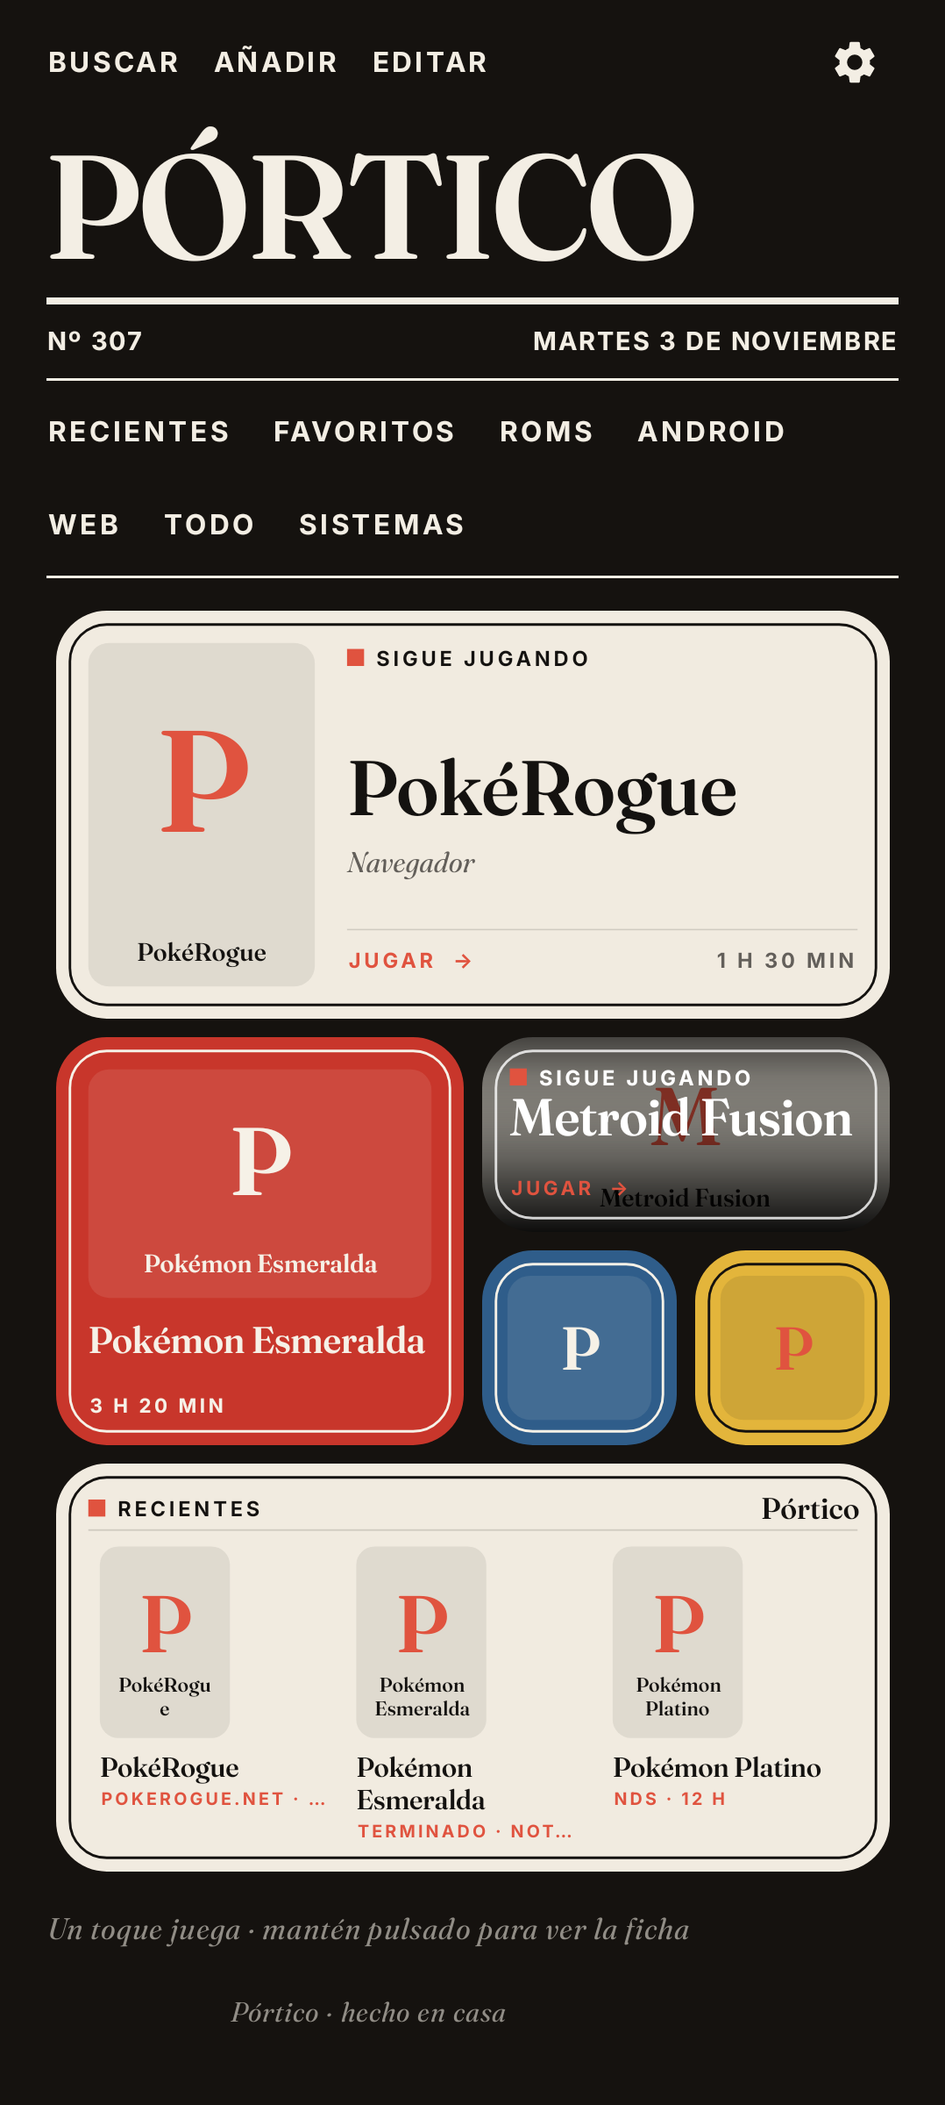
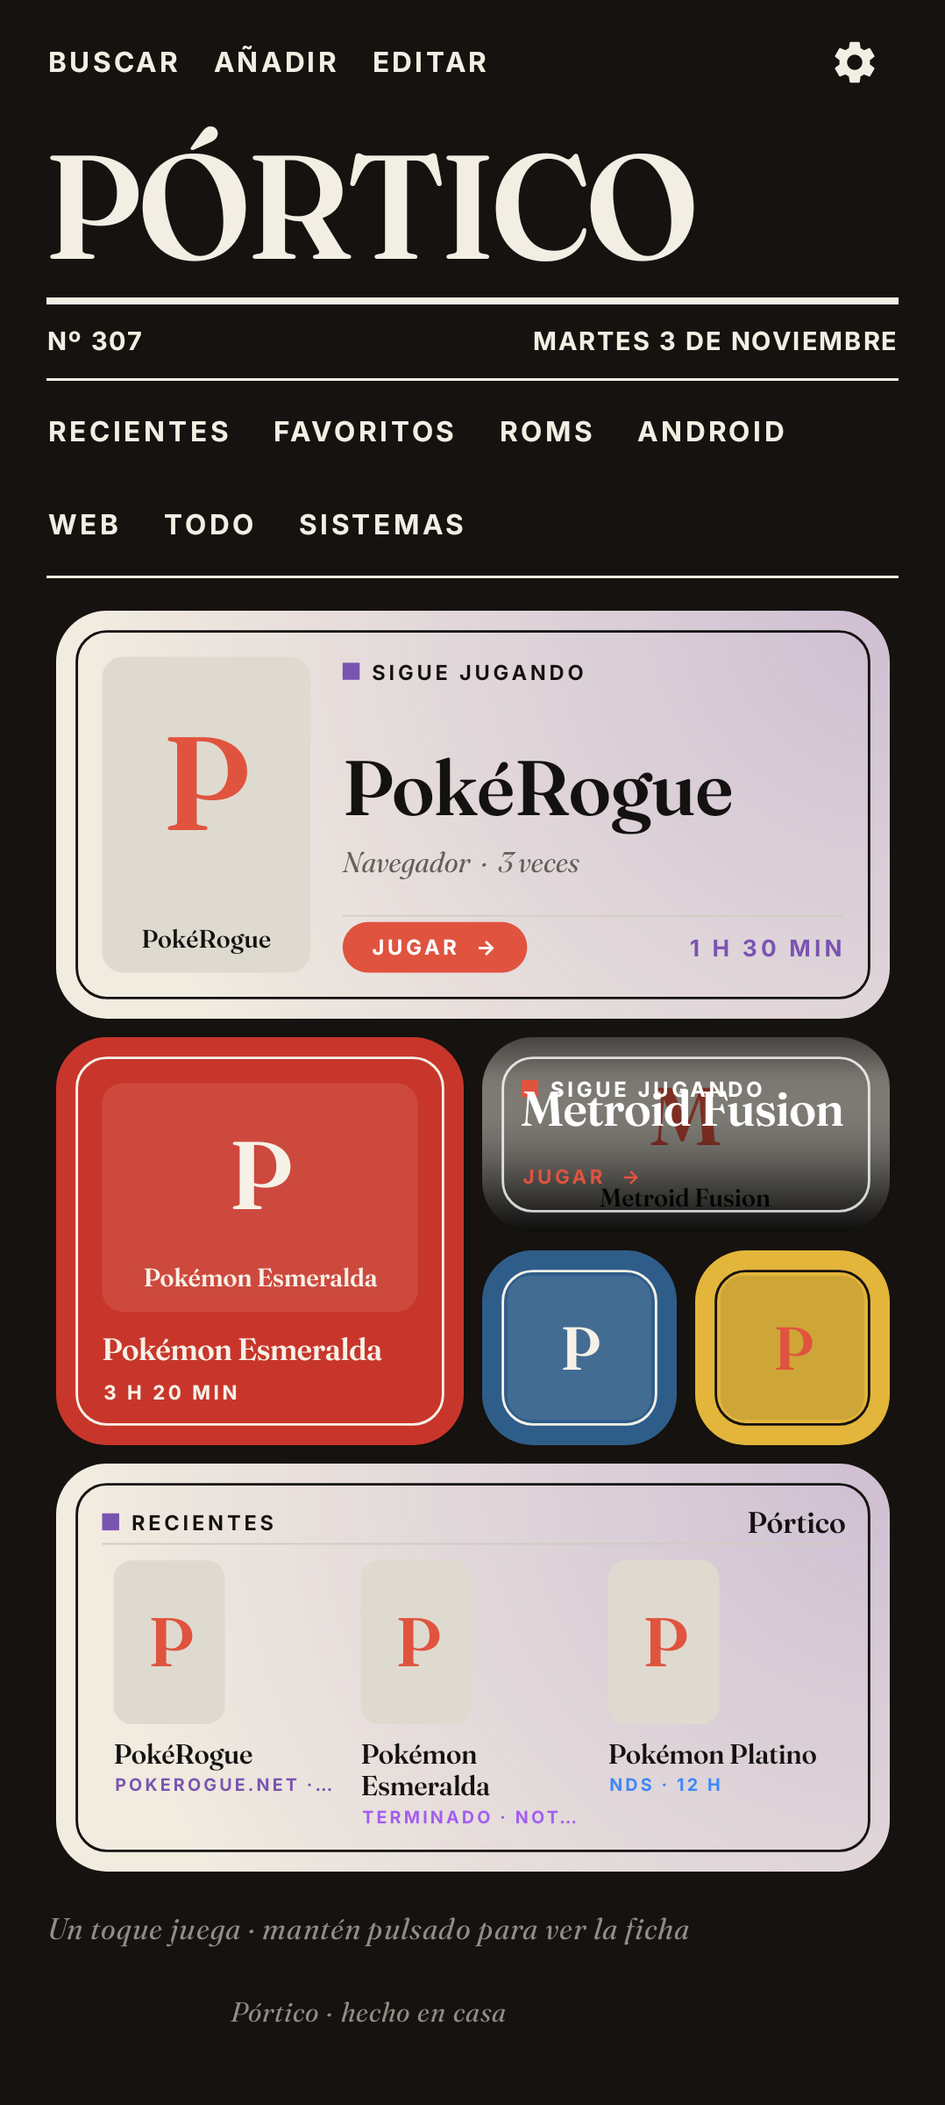
Pórtico 0.13.1: los widgets de dentro con más margen, color, botón y más información
Claude-Session: https://claude.ai/code/session_01Q4uywen3nuzUg5CTwJaCY5

diff --git a/app/src/main/java/com/gonzalo/portico/Widgets.kt b/app/src/main/java/com/gonzalo/portico/Widgets.kt
@@ -17,6 +17,7 @@ import android.graphics.Matrix
 import android.graphics.Paint
 import android.graphics.Path
 import android.graphics.PorterDuff
+import android.graphics.RadialGradient
 import android.graphics.PorterDuffXfermode
 import android.graphics.RectF
 import android.graphics.Shader
@@ -125,13 +126,16 @@ class Pagina(val zonas: List<Zona>, val dibujo: Hoja.() -> Unit) {
     /** Sin papel ni esquinas: solo lo dibujado, sobre el fondo de pantalla. */
     var sinFondo = false
     fun transparente() = apply { sinFondo = true }
-    fun bitmap(ctx: Context, w: Float, h: Float, noche: Boolean, s: Float, propio: Int? = null): Bitmap = Hoja(ctx, w, h, noche, s, propio).apply { dibujo(); if (!sinFondo) terminar() }.bm
+    fun bitmap(ctx: Context, w: Float, h: Float, noche: Boolean, s: Float, propio: Int? = null, dentro: Boolean = false): Bitmap = Hoja(ctx, w, h, noche, s, propio, dentro).apply { dibujo(); if (!sinFondo) terminar() }.bm
 }
 
 private val ES = Locale("es", "ES")
 
+/** El margen de dentro de un widget en la app (más holgado). */
+fun padDe(h: Float) = if (h < 90f) 17f else 20f
+
 /** El lienzo de un widget: se dibuja en dp, con los colores del tema y las letras de la revista. */
-class Hoja(val ctx: Context, val w: Float, val h: Float, val noche: Boolean, s: Float, val propio: Int? = null) {
+class Hoja(val ctx: Context, val w: Float, val h: Float, val noche: Boolean, s: Float, val propio: Int? = null, val dentro: Boolean = false) {
     val bm: Bitmap = Bitmap.createBitmap(max(1, (w * s).roundToInt()), max(1, (h * s).roundToInt()), Bitmap.Config.ARGB_8888)
     val c = Canvas(bm).apply { scale(bm.width / w, bm.height / h) }
 
@@ -166,7 +170,8 @@ class Hoja(val ctx: Context, val w: Float, val h: Float, val noche: Boolean, s: 
 
     /** Recorta las esquinas (suaves, con antialias) y traza el reborde: una línea fina del color del texto, metida hacia dentro. */
     fun terminar() {
-        val m = 6f
+        // Dentro de la app el reborde fino va más metido: más aire entre el borde y el contenido
+        val m = if (dentro) 9f else 6f
         c.drawRoundRect(RectF(m, m, w - m, h - m), radio - m, radio - m, Paint(Paint.ANTI_ALIAS_FLAG).apply {
             style = Paint.Style.STROKE; strokeWidth = 1.1f; color = reborde ?: tinta })
         val p = Path().apply { addRoundRect(RectF(0f, 0f, w, h), radio, radio, Path.Direction.CW); fillType = Path.FillType.INVERSE_WINDING }
@@ -174,6 +179,28 @@ class Hoja(val ctx: Context, val w: Float, val h: Float, val noche: Boolean, s: 
     }
 
     fun fondo(color: Int = papel) = c.drawColor(color)
+    /** Un lavado de color suave desde la esquina de arriba a la derecha (el color del juego): menos papel vacío. */
+    fun lavado(color: Int) {
+        if (!dentro) return
+        val base = color and 0xFFFFFF
+        val a = if (noche) 0x4A else 0x38
+        val p = Paint().apply { shader = RadialGradient(w, 0f, max(w, h) * 0.95f, intArrayOf((a shl 24) or base, base), null, Shader.TileMode.CLAMP) }
+        c.drawRect(0f, 0f, w, h, p)
+    }
+
+    /** Un botón de verdad: píldora de acento con el texto en versalitas. [derecha]: [x] es el borde derecho. */
+    fun boton(texto: String, x: Float, top: Float, alto: Float = 22f, derecha: Boolean = false, color: Int = acento): RectF {
+        val t = texto.uppercase(ES)
+        val p = tp(fNegrita, if (alto < 20f) 8.5f else 9f, if (lum(color) > 0.55f) 0xFF14151A.toInt() else 0xFFFFFFFF.toInt(), 0.16f)
+        val ancho = p.measureText(t) + 2 * (alto * 0.55f)
+        val x0 = if (derecha) x - ancho else x
+        val r = RectF(x0, top, x0 + ancho, top + alto)
+        c.drawRoundRect(r, alto / 2, alto / 2, lleno(color))
+        val fm = p.fontMetrics
+        c.drawText(t, r.left + alto * 0.55f, r.centerY() - (fm.ascent + fm.descent) / 2, p)
+        return r
+    }
+
     fun lleno(color: Int) = Paint(Paint.ANTI_ALIAS_FLAG).apply { this.color = color }
 
     fun tp(f: Typeface, size: Float, color: Int, track: Float = 0f) =
@@ -454,20 +481,20 @@ object Widgets {
     }
 
     /** El widget «Sigue jugando» fijo en un juego (para la pantalla de inicio de la app): el mismo dibujo, con su color si lo hay. */
-    suspend fun paginaDeJuego(ctx: Context, j: Juego, w: Float, h: Float, propio: Boolean): Pagina {
+    suspend fun paginaDeJuego(ctx: Context, j: Juego, w: Float, h: Float, propio: Boolean, dentro: Boolean = false): Pagina {
         cargarLetras(ctx)
-        return jugando(WDatos(ctx), 0, w, h, fijo = j, propio = propio)
+        return jugando(WDatos(ctx), 0, w, h, fijo = j, propio = propio, dentro = dentro)
     }
 
-    suspend fun componer(ctx: Context, tipo: WTipo, id: Int, w: Float, h: Float): Pagina {
+    suspend fun componer(ctx: Context, tipo: WTipo, id: Int, w: Float, h: Float, dentro: Boolean = false): Pagina {
         val d = WDatos(ctx)
         return when (tipo) {
-            WTipo.JUGANDO -> jugando(d, id, w, h)
-            WTipo.ESTANTE -> estante(d, w, h)
-            WTipo.PORTADA -> enPortada(d, id, w, h)
-            WTipo.SIGUIENTE -> siguiente(d, id, w, h)
+            WTipo.JUGANDO -> jugando(d, id, w, h, dentro = dentro)
+            WTipo.ESTANTE -> estante(d, w, h, dentro)
+            WTipo.PORTADA -> enPortada(d, id, w, h, dentro)
+            WTipo.SIGUIENTE -> siguiente(d, id, w, h, dentro)
             WTipo.MARCA -> marca(d, w, h)
-            WTipo.MARCA_PAPEL -> marcaPapel(d, w, h)
+            WTipo.MARCA_PAPEL -> marcaPapel(d, w, h, dentro)
         }
     }
 
@@ -548,7 +575,7 @@ object Widgets {
             pon(t, pad, pad + 28f + l.height)
         }
 
-    private suspend fun jugando(d: WDatos, id: Int, w: Float, h: Float, fijo: Juego? = null, propio: Boolean = false): Pagina {
+    private suspend fun jugando(d: WDatos, id: Int, w: Float, h: Float, fijo: Juego? = null, propio: Boolean = false, dentro: Boolean = false): Pagina {
         val ctx = d.ctx
         val lista = if (fijo != null) listOf(fijo) else d.recientes
         if (lista.isEmpty()) return vacio(ctx, "Sigue jugando", "Nada que jugar todavía", "Añade un juego a Pórtico y lo tendrás aquí, a un toque de jugar.", w, h)
@@ -558,13 +585,16 @@ object Widgets {
         val img = imagen(ctx, e, px(ctx, if (compacto) max(w, h) else h * 0.9f))
         val accion = "Jugar  →"
         val horas = if (e.msJugados >= 60_000) tiempoDe(e.msJugados) else ""
+        val gc = if (dentro) tonosDe(e).first.toArgb() else 0
+        // Lo de más: cuántas veces lo has jugado y cómo va (solo dentro de la app, para llenar el hueco)
+        val extra = listOfNotNull(if (e.veces > 0) "${e.veces} ${if (e.veces == 1) "vez" else "veces"}" else null, if (e.terminado) "terminado" else null, if (e.favorito) "favorito" else null).joinToString(" · ")
         val zonas = mutableListOf(
             Zona(0f, 0f, w, h, abrirFicha(ctx, e.id), "Abrir ${e.titulo}"),
             Zona(0f, h - 44f, w * 0.5f, 44f, jugar(ctx, e.id), "Jugar a ${e.titulo}")
         )
         if (lista.size > 1) zonas += Zona(w - 72f, 0f, 72f, 42f, op(ctx, WTipo.JUGANDO, id, "sig"), "Otro juego")
         return Pagina(zonas) {
-            val pad = if (h < 90f) 12f else 14f
+            val pad = if (dentro) padDe(h) else if (h < 90f) 12f else 14f
             when {
                 // Con un color elegido, el color tiene que verse: la portada va dentro del papel de ese color, no a sangre
                 compacto && propio -> {
@@ -592,39 +622,39 @@ object Widgets {
                 }
                 h > w * 1.15f -> {
                     // Alto: portada arriba y el título debajo
-                    fondo()
-                    seccion("Sigue jugando", pad, pad, w - 2 * pad - 50f)
+                    fondo(); lavado(gc)
+                    seccion("Sigue jugando", pad, pad, w - 2 * pad - 50f, tinta, if (dentro) gc else acento)
                     val top = pad + 20f
                     val ch = h * 0.5f - top
                     val cw = min(ch * 0.66f, w * 0.55f)
                     portada(img, RectF(pad, top, pad + cw, top + ch), e.titulo)
                     val x0 = pad + cw + 10f
-                    if (horas.isNotEmpty()) pon(capa(horas, tp(fTitular, min(26f, (w - x0 - pad) / 3f), acento), w - x0 - pad + 4f, 1), x0, top + ch - 30f)
+                    if (horas.isNotEmpty()) pon(capa(horas, tp(fTitular, min(26f, (w - x0 - pad) / 3f), if (dentro) gc else acento), w - x0 - pad + 4f, 1), x0, top + ch - 30f)
                     var y = top + ch + 12f
                     val l = titular(e.titulo, w - 2 * pad, h - y - pad - 26f - 16f, 30f, 13f, 4)
                     y += pon(l, pad, y) + 3f
                     pon(capa(d.origen(e), tp(fCursiva, 12f, gris), w - 2 * pad, 1), pad, y)
-                    ante(accion, pad, h - pad - 11f, w - 2 * pad, acento)
+                    if (dentro) boton(accion, pad, h - pad - 22f, 22f) else ante(accion, pad, h - pad - 11f, w - 2 * pad, acento)
                 }
                 else -> {
                     // Ancho: portada a la izquierda; a la derecha, la sección arriba, el pie abajo y el titular entre los dos
-                    fondo()
+                    fondo(); lavado(gc)
                     val ch = h - 2 * pad
                     val cw = min(ch * 0.66f, w * 0.36f)
                     portada(img, RectF(pad, pad, pad + cw, pad + ch), e.titulo)
                     val x0 = pad + cw + 14f
                     val rw = w - x0 - pad
-                    seccion("Sigue jugando", x0, pad + 1f, rw)
+                    seccion("Sigue jugando", x0, pad + 1f, rw, tinta, if (dentro) gc else acento)
                     val altoAnte = capa("L", tp(fNegrita, 9f, tinta, 0.16f), 40f, 1).height.toFloat()
                     val bajo = h < 110f
                     val pieY = if (bajo) h - pad - altoAnte else h - pad - 17f
-                    ante(accion, x0, pieY, rw, acento)
-                    if (horas.isNotEmpty()) ante(horas, x0, pieY, rw, gris, 9f, Layout.Alignment.ALIGN_OPPOSITE)
+                    if (dentro) boton(accion, x0, if (bajo) h - pad - 16f else h - pad - 22f, if (bajo) 16f else 22f) else ante(accion, x0, pieY, rw, acento)
+                    if (horas.isNotEmpty()) ante(horas, x0, pieY, rw, if (dentro) gc else gris, if (dentro) 10f else 9f, Layout.Alignment.ALIGN_OPPOSITE)
                     if (!bajo) c.drawRect(x0, h - pad - 22f - 3f, w - pad, h - pad - 21.4f - 3f, lleno(linea))
                     val arriba = pad + 1f + altoAnte
                     val aire = if (bajo) 7f else 10f
                     val hueco = pieY - arriba - 2 * aire - if (bajo) 0f else 4f
-                    val autor = if (h >= 130f) capa(d.origen(e), tp(fCursiva, 12.5f, gris), rw, 1) else null
+                    val autor = if (h >= 130f) capa(d.origen(e) + if (dentro && extra.isNotEmpty() && h >= 150f) "  ·  $extra" else "", tp(fCursiva, 12.5f, gris), rw, 1) else null
                     val altoAutor = autor?.let { it.height + 4f } ?: 0f
                     val l = titular(e.titulo, rw, hueco - altoAutor, (h * 0.19f).coerceIn(30f, 46f), if (bajo) 12f else 13f, if (bajo) 1 else 3)
                     val y = arriba + (pieY - arriba - l.height - altoAutor) / 2
@@ -637,9 +667,9 @@ object Widgets {
 
     // ------------------------------------------------------------------ Recientes (estantería)
 
-    private suspend fun estante(d: WDatos, w: Float, h: Float): Pagina {
+    private suspend fun estante(d: WDatos, w: Float, h: Float, dentro: Boolean = false): Pagina {
         val ctx = d.ctx
-        val pad = 14f
+        val pad = if (dentro) padDe(h) else 14f
         val todas = d.recientes
         if (todas.isEmpty()) return vacio(ctx, "Recientes", "Nada jugado todavía", "Lo último que juegues aparecerá aquí en fila, como en una estantería.", w, h)
         val bajo = h < 150f
@@ -656,8 +686,8 @@ object Widgets {
             Zona(pad, top, w - 2 * pad, h - top, null, "", listOf(items.map { jugar(ctx, it.id) to "Jugar a ${it.titulo}" }))
         )
         return Pagina(zonas) {
-            fondo()
-            seccion("Recientes", pad, pad, w - 2 * pad)
+            fondo(); if (dentro) lavado(tonosDe(items[0]).first.toArgb())
+            seccion("Recientes", pad, pad, w - 2 * pad, tinta, if (dentro) tonosDe(items[0]).first.toArgb() else acento)
             pon(capa("Pórtico", tp(fTitular, 13f, tinta), 80f, 1, 1f, Layout.Alignment.ALIGN_OPPOSITE), w - pad - 80f, pad - 3f)
             c.drawRect(pad, pad + 14.5f, w - pad, pad + 15.2f, lleno(linea))
             items.forEachIndexed { k, e ->
@@ -668,7 +698,7 @@ object Widgets {
                 if (bajo) {
                     val tx = x + cw + 8f
                     val tw = slot - 2 * gap - cw - 8f
-                    val est = capa(d.estado(e).uppercase(ES), tp(fNegrita, 7.5f, acento, 0.16f), tw, 2)
+                    val est = capa(d.estado(e).uppercase(ES), tp(fNegrita, 7.5f, if (dentro) tonosDe(e).first.toArgb() else acento, 0.16f), tw, 2)
                     val l = titular(e.titulo, tw, ch - est.height - 4f, 15f, 10f, 3)
                     pon(l, tx, top)
                     pon(est, tx, top + ch - est.height)
@@ -676,7 +706,7 @@ object Widgets {
                     val tw = slot - 2 * gap
                     val l = capa(e.titulo, tp(fTitular, 12f, tinta, -0.01f), tw, 2, 0.95f)
                     pon(l, x, top + ch + 5f)
-                    ante(d.estado(e), x, top + ch + 7f + l.height, tw, acento, 7.5f)
+                    ante(d.estado(e), x, top + ch + 7f + l.height, tw, if (dentro) tonosDe(e).first.toArgb() else acento, 7.5f)
                 }
             }
         }
@@ -684,7 +714,7 @@ object Widgets {
 
     // ------------------------------------------------------------------ En portada
 
-    private suspend fun enPortada(d: WDatos, id: Int, w: Float, h: Float): Pagina {
+    private suspend fun enPortada(d: WDatos, id: Int, w: Float, h: Float, dentro: Boolean = false): Pagina {
         val ctx = d.ctx
         val items = d.recientes
         if (items.isEmpty()) return vacio(ctx, "En portada", "Tu revista empieza aquí", "Añade o juega algo y saldrá en la portada.", w, h)
@@ -698,7 +728,7 @@ object Widgets {
         if (items.size > 1) zonas += Zona(w - 80f, 0f, 80f, 52f, op(ctx, WTipo.PORTADA, id, "sig"), "Siguiente")
         val fecha = LocalDate.now().let { "${it.dayOfMonth} ${it.month.getDisplayName(TextStyle.SHORT, ES).trimEnd('.')} ${it.year}" }
         return Pagina(zonas) {
-            val pad = 16f
+            val pad = if (dentro) padDe(h) else 16f
             val blanco = 0xFFFFFFFF.toInt()
             if (img != null) {
                 portada(img, RectF(0f, 0f, w, h), e.titulo, 0f, false); reborde = 0xCCFFFFFF.toInt()
@@ -730,7 +760,7 @@ object Widgets {
 
     // ------------------------------------------------------------------ ¿Y ahora qué?
 
-    private suspend fun siguiente(d: WDatos, id: Int, w: Float, h: Float): Pagina {
+    private suspend fun siguiente(d: WDatos, id: Int, w: Float, h: Float, dentro: Boolean = false): Pagina {
         val ctx = d.ctx
         // Algo de tu biblioteca que no hayas terminado (mejor si aún no lo has abierto), en un orden revuelto pero fijo
         val sinProbar = d.sinTerminar.filter { it.veces == 0 }
@@ -741,7 +771,7 @@ object Widgets {
         val e = lista[i]
         val compacto = w < 200f && h < 200f
         val img = imagen(ctx, e, px(ctx, if (compacto) max(w, h) else h))
-        val pad = 14f
+        val pad = if (dentro) padDe(h) else 14f
         val zonas = mutableListOf(
             Zona(0f, 0f, w, h, abrirFicha(ctx, e.id), e.titulo),
             Zona(0f, h - 40f, w * 0.55f, 40f, jugar(ctx, e.id), "Jugar a ${e.titulo}")
@@ -759,13 +789,13 @@ object Widgets {
                 if (lista.size > 1) ante("Otra  ›", w - pad - 60f, h - pad - 11f, 60f, 0xCCFFFFFF.toInt(), 8.5f, Layout.Alignment.ALIGN_OPPOSITE)
                 return@Pagina
             }
-            fondo()
+            fondo(); if (dentro) lavado(tonosDe(e).first.toArgb())
             val ch = h - 2 * pad
             val cw = min(ch * 0.68f, w * 0.34f)
             portada(img, RectF(pad, pad, pad + cw, pad + ch), e.titulo)
             val x0 = pad + cw + 14f
             val rw = w - x0 - pad
-            seccion("¿Y ahora qué?", x0, pad + 1f, rw)
+            seccion("¿Y ahora qué?", x0, pad + 1f, rw, tinta, if (dentro) tonosDe(e).first.toArgb() else acento)
             val y0 = pad + 20f
             val l = titular(e.titulo, rw, h - y0 - pad - 30f - 16f, (h * 0.19f).coerceIn(30f, 46f), 13f, 3)
             pon(l, x0, y0)
@@ -811,13 +841,13 @@ object Widgets {
     }
 
     /** PÓRTICO en papel: la cabecera de la portada (el nombre, el número del día y la fecha), con su papel de fondo. */
-    private fun marcaPapel(d: WDatos, w: Float, h: Float): Pagina {
+    private fun marcaPapel(d: WDatos, w: Float, h: Float, dentro: Boolean = false): Pagina {
         val ctx = d.ctx
         val hoy = LocalDate.now()
         val fecha = "${hoy.dayOfWeek.getDisplayName(TextStyle.FULL, ES)} ${hoy.dayOfMonth} de ${hoy.month.getDisplayName(TextStyle.FULL, ES)}"
         return Pagina(listOf(Zona(0f, 0f, w, h, abrirApp(ctx), "Abrir Pórtico"))) {
             fondo()
-            val pad = if (h < 90f) 12f else 16f
+            val pad = if (dentro) padDe(h) else if (h < 90f) 12f else 16f
             // Lo de debajo del nombre, según el sitio: la línea del número y la fecha; y la entradilla si cabe
             val conLinea = h >= 70f
             val conEntradilla = h >= 140f

diff --git a/app/src/main/java/com/gonzalo/portico/Lienzo.kt b/app/src/main/java/com/gonzalo/portico/Lienzo.kt
@@ -217,9 +217,9 @@ private fun ContenidoWidget(e: Elemento, j: Juego?, wDp: Float, hDp: Float, edit
         value = withContext(Dispatchers.IO) {
             runCatching {
                 Widgets.cargarLetras(ctx)
-                val pag = if (e.esJuego) Widgets.paginaDeJuego(ctx, j!!, wDp, hDp, propio != null)
-                else Widgets.componer(ctx, WTipo.valueOf(e.ref), idNum, wDp, hDp)
-                pag to pag.bitmap(ctx, wDp, hDp, noche, Widgets.escala(ctx, wDp, hDp, 1), propio).asImageBitmap()
+                val pag = if (e.esJuego) Widgets.paginaDeJuego(ctx, j!!, wDp, hDp, propio != null, dentro = true)
+                else Widgets.componer(ctx, WTipo.valueOf(e.ref), idNum, wDp, hDp, dentro = true)
+                pag to pag.bitmap(ctx, wDp, hDp, noche, Widgets.escala(ctx, wDp, hDp, 1), propio, dentro = true).asImageBitmap()
             }.getOrNull()
         }
     }

diff --git a/app/src/main/java/com/gonzalo/portico/PantEstilo.kt b/app/src/main/java/com/gonzalo/portico/PantEstilo.kt
@@ -36,7 +36,7 @@ import androidx.compose.material3.TextButton
 import kotlinx.coroutines.Dispatchers
 import kotlinx.coroutines.withContext
 
-const val VERSION = "0.13.0"
+const val VERSION = "0.13.1"
 
 private fun aliasInicio(c: Context) = ComponentName(c, "com.gonzalo.portico.InicioAlias")
 private fun esInicio(c: Context) = c.packageManager.getComponentEnabledSetting(aliasInicio(c)) == PackageManager.COMPONENT_ENABLED_STATE_ENABLED

diff --git a/README.md b/README.md
@@ -19,6 +19,7 @@ La interfaz es la «Revista» de Atrio. Generadas en el ordenador con datos de e
 Como la portada de Atrio: cabecera de revista, el **menú de secciones** (Recientes, Favoritos, ROMs, Android, Web, Todo, Sistemas) y, debajo, **tu lienzo**: una cuadrícula de 4 columnas de casillas invisibles donde colocas lo que quieras con el tamaño que quieras.
 - **Editar**: arrastra un elemento para moverlo (se encaja en las casillas; si pisa a otros, los empuja hacia abajo, como en la pantalla de inicio del móvil), arrastra el **círculo** de su esquina para hacerlo grande o pequeño, toca para elegir su **color de fondo** (solo el de ese elemento): cualquier color (matiz, intensidad y brillo, o el código #RRGGBB); los que uses quedan guardados y a mano para otras fichas («T» = el del tema), o **encuadrar** una imagen (arrastrar y zoom, con la forma exacta de su hueco) o quitarlo. «+ Añadir»: un juego, una imagen de la galería o una **imagen de internet** (la misma búsqueda de las portadas: Google Imágenes, Pinterest, ArtStation, Newgrounds).
 - **Los juegos y los widgets de dentro son los widgets de fuera**: se dibujan con el mismo código (papel, tinta, letras del tema, portadas, reborde fino y esquinas). Un juego es el widget «Sigue jugando» fijo en él (según su tamaño: portada a sangre, ancho o alto). «+ Añadir → Widgets» pone también Sigue jugando, Recientes, En portada, ¿Y ahora qué?, PÓRTICO y PÓRTICO en papel; tocarlos hace lo mismo que fuera. El contador «1/4 ›» de los widgets se quitó (tocar la esquina de arriba sigue pasando al siguiente).
+- Dentro de la app los widgets llevan **más margen** (el reborde fino más metido), un lavado suave del color de cada juego, la categoría arriba, un **botón «Jugar →»** y algo más de información (veces jugadas, terminado…) para que no queden vacíos; los de fuera no cambian.
 - **Color**: cada juego o widget puede tener su propio color de fondo (cualquiera, con los usados a mano): ese pasa a ser su papel, y la tinta, el gris y las líneas se sacan de él para que se lea. Sin color propio usan los del tema.
 - **Sincronizado entre tus móviles** (por elemento, gana el cambio más reciente; lo quitado se quita en todos). Los juegos se enlazan por su clave, las imágenes viajan por kDrive. La cuadrícula tiene 4 columnas en todos los móviles para que la disposición sea la misma.
 - La primera vez (sin cuenta vinculada) se rellena con tus últimos juegos. Capturas: [lienzo](docs/capturas/20_lienzo.png) · [editando](docs/capturas/21_lienzo_editando.png).
